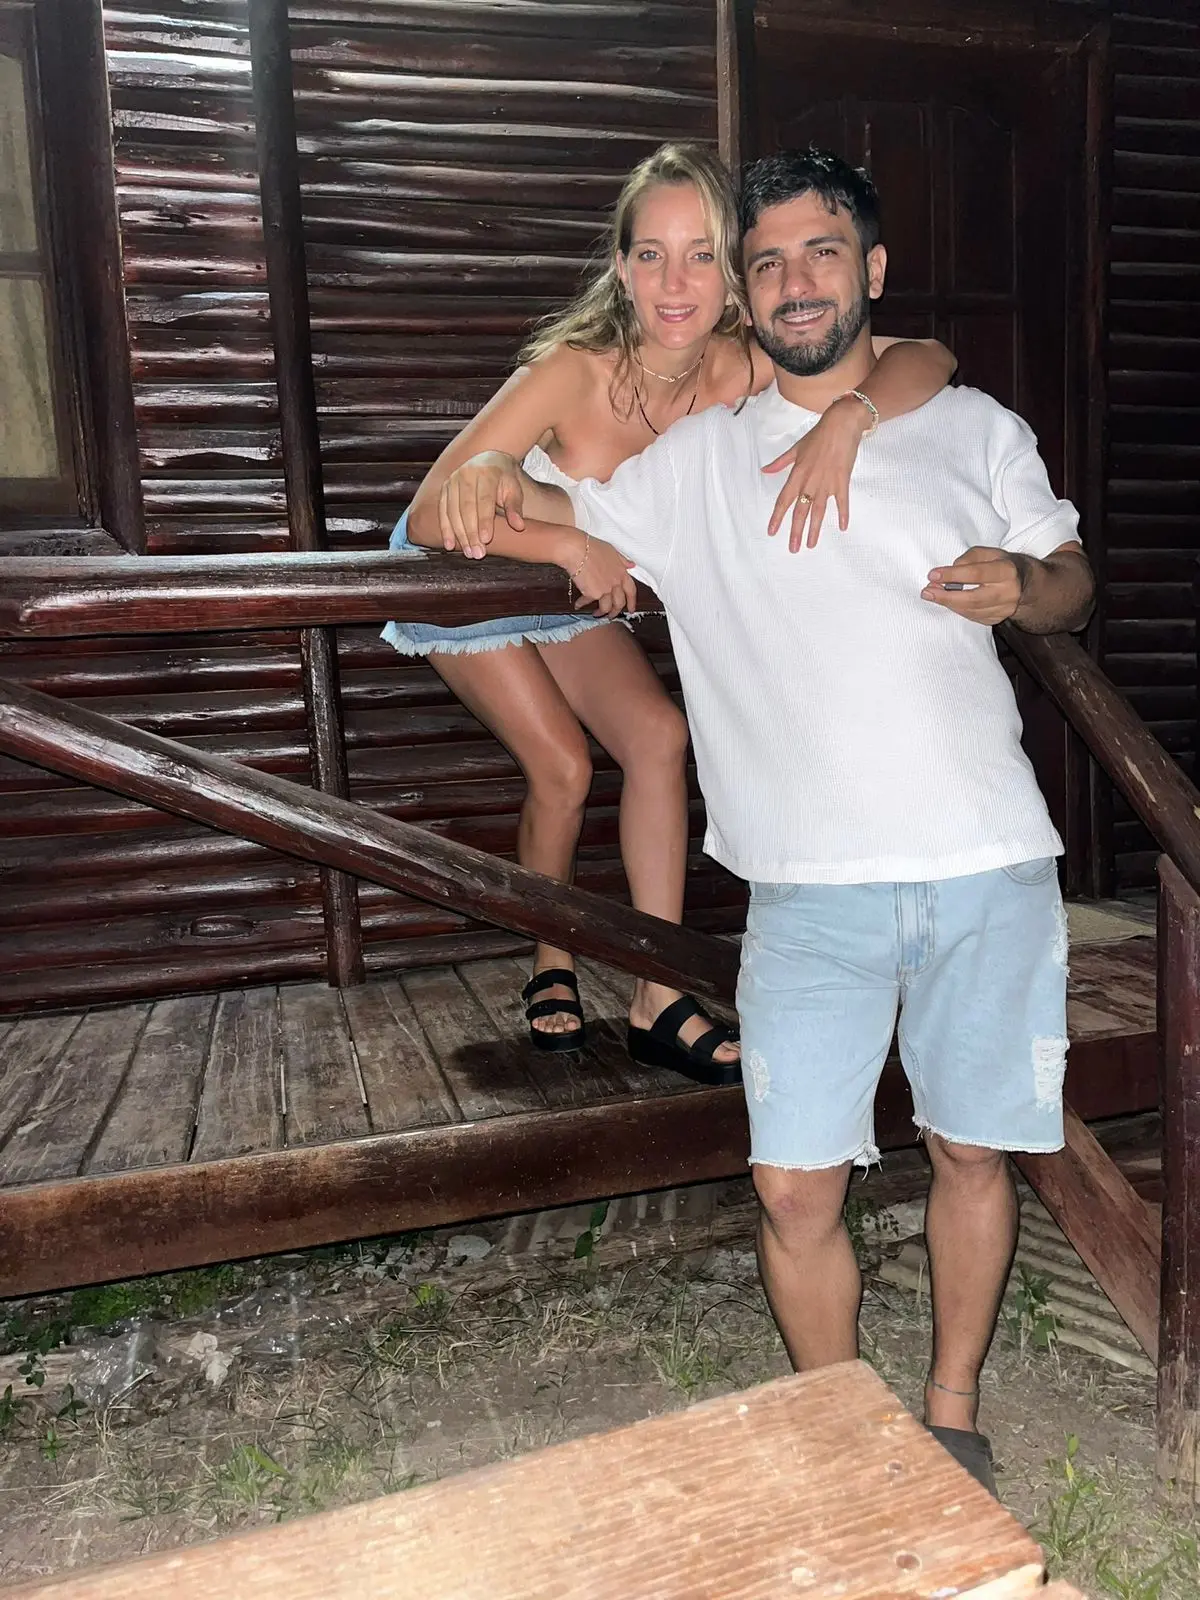
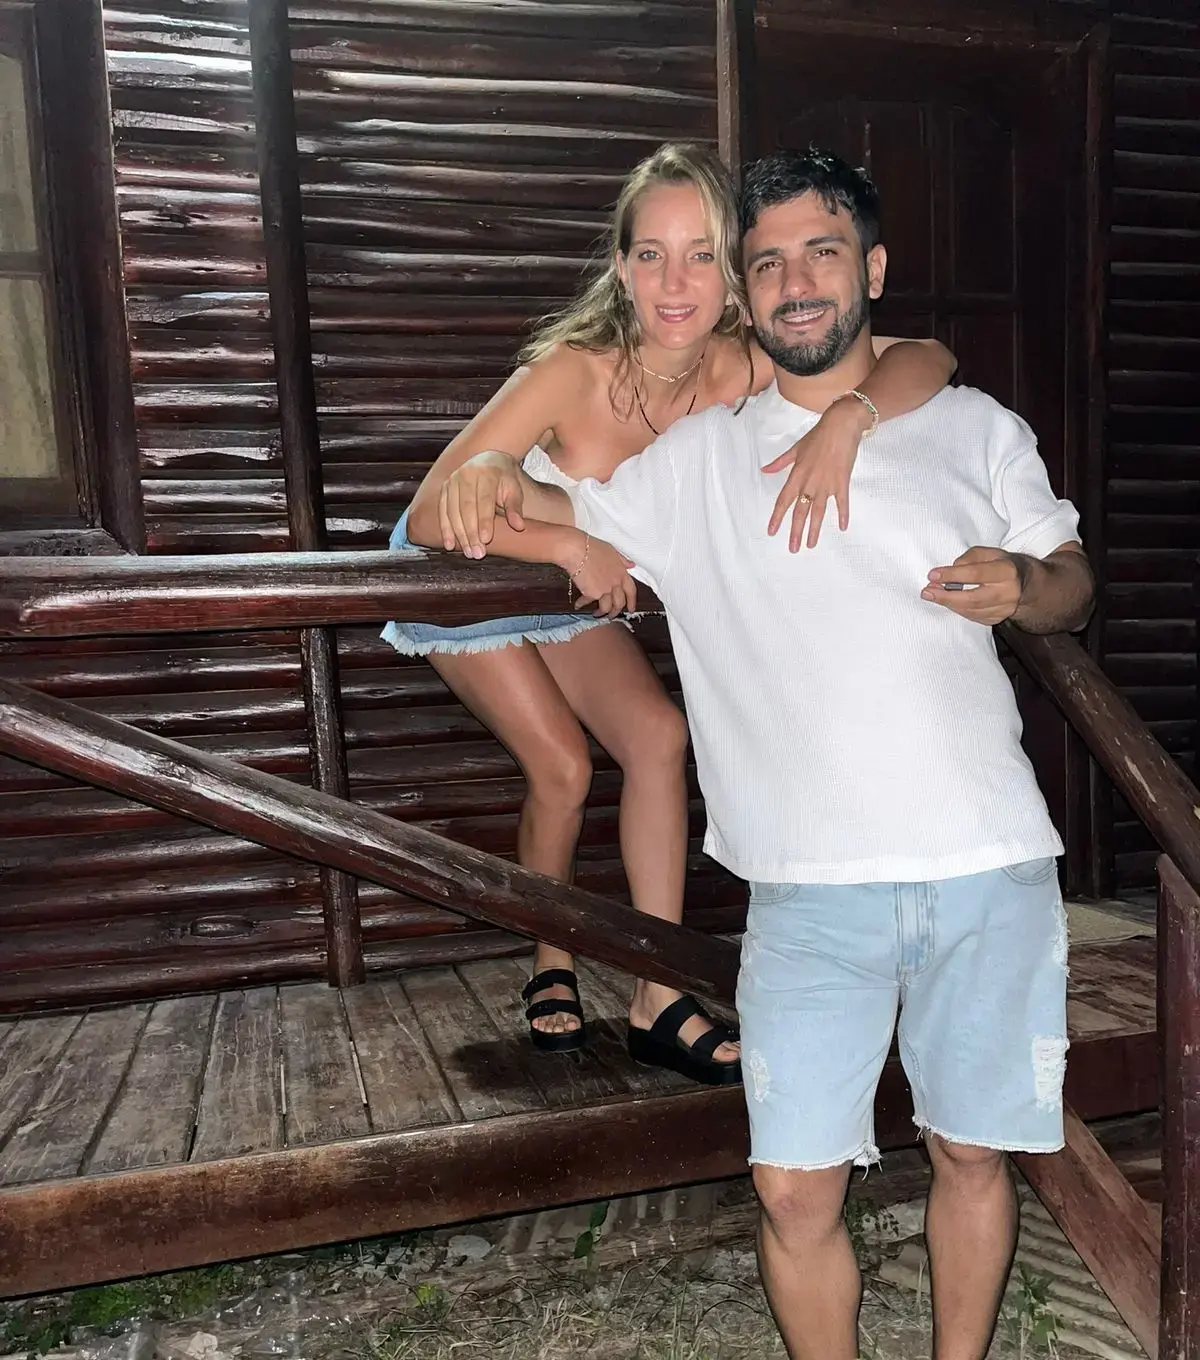
fix photo3

diff --git a/index.html b/index.html
@@ -359,7 +359,7 @@
 .carousel-slide img {
   width: 100%;
   height: 100%;
-  object-fit: contain;
+  object-fit: cover;
   display: block;
 }
 
@@ -550,7 +550,7 @@ href="https://www.google.com/maps/search/?api=1&query=La+Posta+Eventos+Pilar">
         <img src="img/oscamirandom2.webp" alt="Imagen 2">
       </div>
       <div class="carousel-slide">
-        <img src="img/oscamirandom3.webp" alt="Imagen 3">
+        <img src="img/oscamirandom3_cropped.webp" alt="Imagen 3">
       </div>
       <div class="carousel-slide">
         <img src="img/oscamirandom4.webp" alt="Imagen 4">
